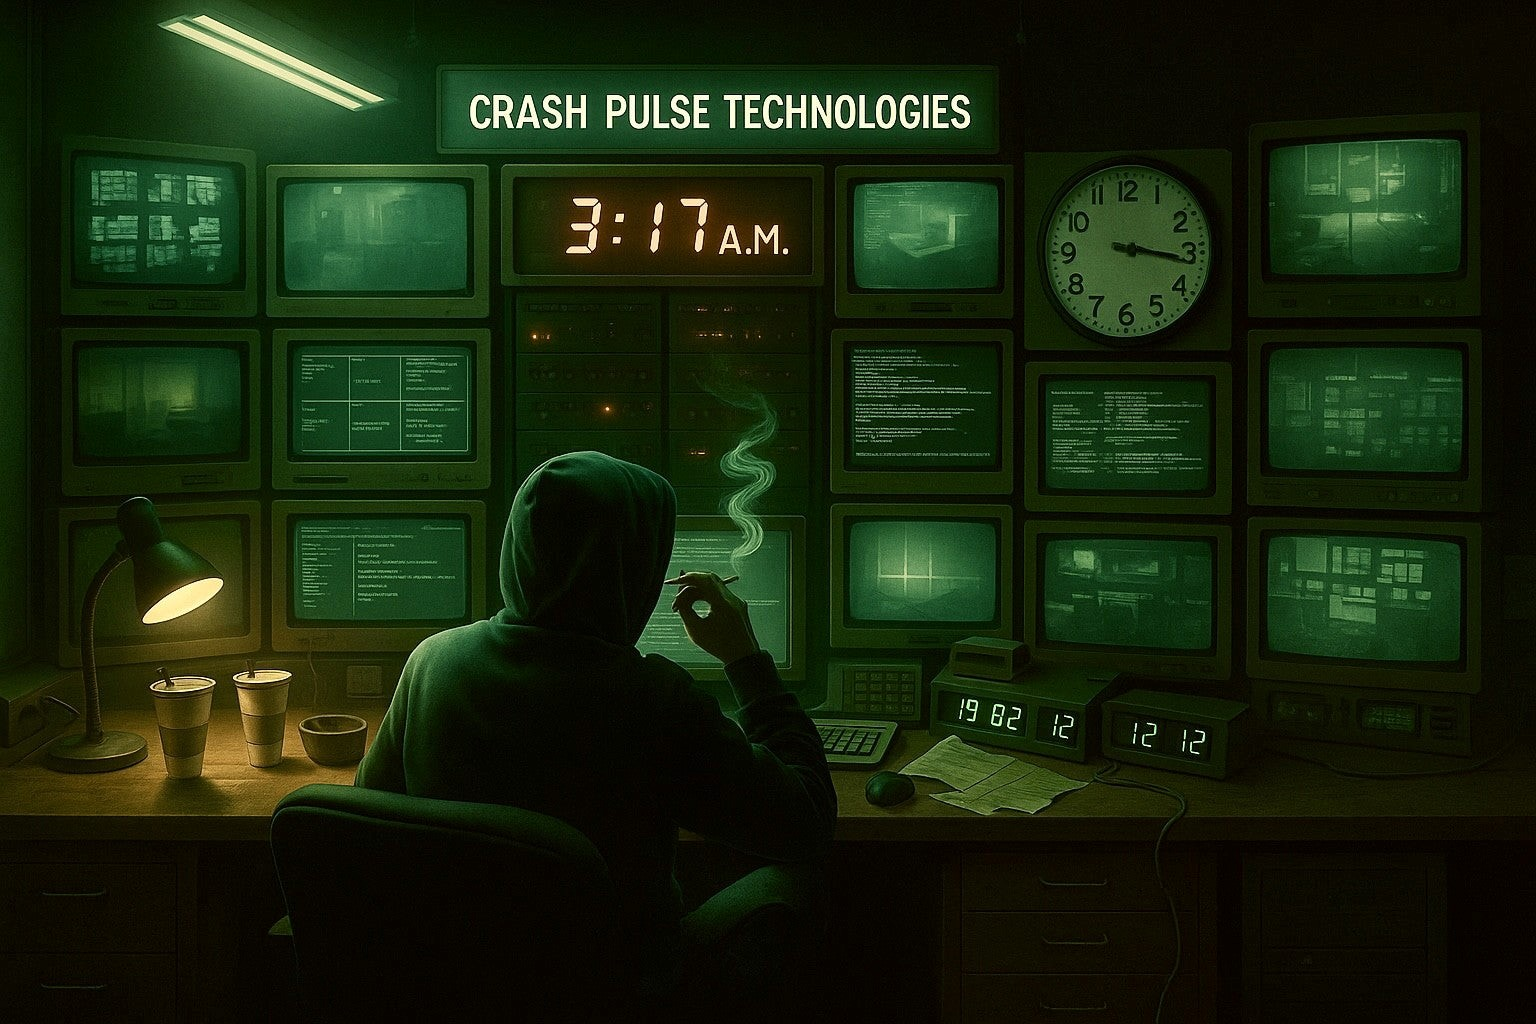
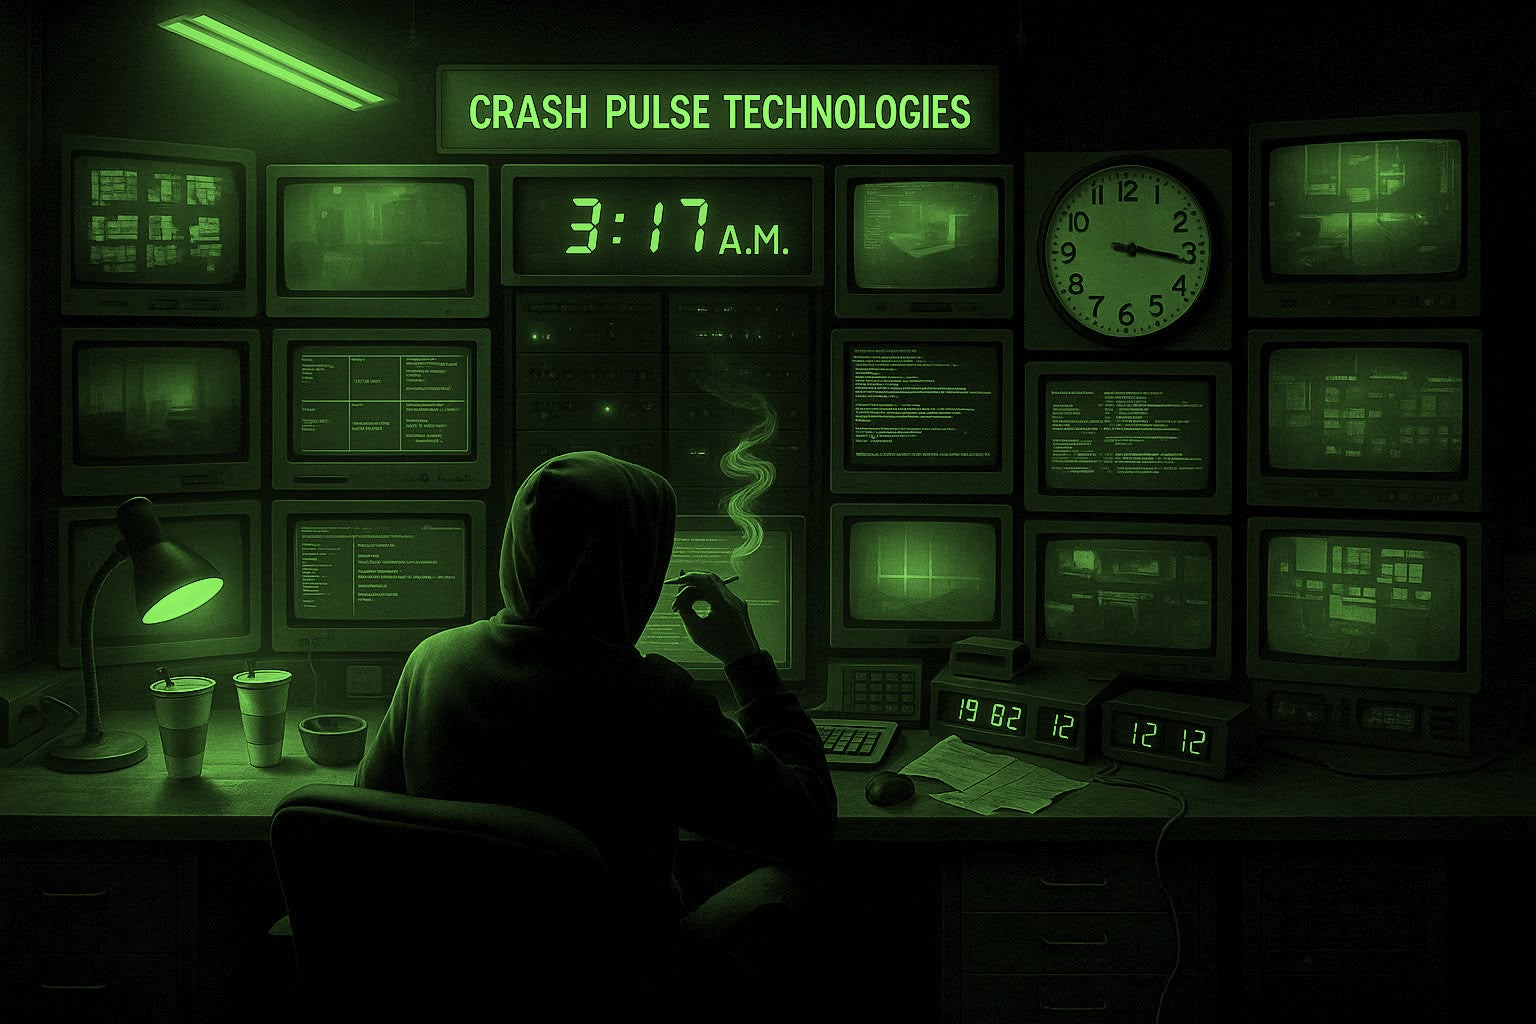
change images, add first and last name to login

diff --git a/app/admin/page.tsx b/app/admin/page.tsx
@@ -2,7 +2,6 @@ import { redirect } from "next/navigation";
 import Link from "next/link";
 import pool from "@/lib/db";
 import { getSession } from "@/lib/auth";
-import { Resend } from "resend";
 import { getVehicles } from "@/lib/vehicles";
 import { getLookupColumnConfig } from "@/lib/lookup-columns";
 import { AdminDataTab } from "./AdminDataTab";
@@ -50,26 +49,26 @@ function formatDate(iso: string | null) {
   });
 }
 
-interface ContactEmail {
-  id: string;
-  subject: string;
-  to: string[] | null;
-  reply_to: string[] | null;
+interface ContactRow {
+  id: number;
+  first_name: string;
+  last_name: string;
+  email: string;
+  phone: string | null;
+  message: string | null;
   created_at: string;
-  sent_at: string | null;
-  status: string;
 }
 
-async function getContactEmails(): Promise<ContactEmail[]> {
-  if (!process.env.RESEND_API_KEY) return [];
+async function getContacts(): Promise<ContactRow[]> {
   try {
-    const resend = new Resend(process.env.RESEND_API_KEY);
-    const { data, error } = await resend.emails.list();
-    if (error || !data) return [];
-    return (data.data as unknown as ContactEmail[]).filter(e =>
-      e.subject?.startsWith("New contact from") && !e.reply_to?.[0]?.includes("okashoon") &&!e.reply_to?.[0]?.includes("a.okasha")
+    const { rows } = await pool.query<ContactRow>(
+      `SELECT id, first_name, last_name, email, phone, message, created_at
+       FROM contacts
+       ORDER BY created_at DESC`
     );
-  } catch {
+    return rows;
+  } catch (err) {
+    console.error("[admin] failed to load contacts:", err);
     return [];
   }
 }
@@ -110,9 +109,9 @@ export default async function AdminPage({
     : null) as Filter;
   const page = Math.max(1, Number(rawPage) || 1);
 
-  const [allUsers, contactEmails, vehicleResult, columnConfig, cables] = await Promise.all([
+  const [allUsers, contacts, vehicleResult, columnConfig, cables] = await Promise.all([
     tab === "users" ? getAllUsers() : Promise.resolve([] as UserRow[]),
-    tab === "users" ? getContactEmails() : Promise.resolve([] as ContactEmail[]),
+    tab === "users" ? getContacts() : Promise.resolve([] as ContactRow[]),
     tab === "data" ? getVehicles({}, page, PER_PAGE) : Promise.resolve({ rows: [], total: 0 }),
     tab === "data" ? getLookupColumnConfig() : Promise.resolve([]),
     tab === "cables" ? getCables() : Promise.resolve([] as CableRecord[]),
@@ -332,45 +331,47 @@ export default async function AdminPage({
 
             {/* Contact messages */}
             <div className="bg-gray-900 border border-gray-800 rounded-lg overflow-hidden">
-              <div className="px-5 py-4 border-b border-gray-800 flex items-center justify-between">
+              <div className="px-5 py-4 border-b border-gray-800">
                 <h2 className="text-sm font-semibold text-gray-300 uppercase tracking-wider">
-                  Contact Messages ({contactEmails.length})
+                  Contact Messages ({contacts.length})
                 </h2>
-                <a
-                  href="https://resend.com/emails"
-                  target="_blank"
-                  rel="noopener noreferrer"
-                  className="text-xs text-gray-500 hover:text-gray-300 transition-colors"
-                >
-                  View in Resend ↗
-                </a>
               </div>
               <div className="overflow-x-auto">
                 <table className="w-full text-sm">
                   <thead>
                     <tr className="border-b border-gray-800 text-gray-400 text-xs uppercase tracking-wider">
-                      <th className="px-5 py-3 text-left">From</th>
-                      <th className="px-5 py-3 text-left">Subject</th>
-                      <th className="px-5 py-3 text-left">Sent</th>
+                      <th className="px-5 py-3 text-left">Name</th>
+                      <th className="px-5 py-3 text-left">Email</th>
+                      <th className="px-5 py-3 text-left">Phone</th>
+                      <th className="px-5 py-3 text-left">Message</th>
+                      <th className="px-5 py-3 text-left">Received</th>
                     </tr>
                   </thead>
                   <tbody className="divide-y divide-gray-800/60">
-                    {contactEmails.map(email => (
-                      <tr key={email.id} className="hover:bg-gray-800/40 transition-colors">
-                        <td className="px-5 py-3 text-gray-300 text-xs font-mono">
-                          {email.reply_to?.[0] ?? "—"}
+                    {contacts.map((c) => (
+                      <tr key={c.id} className="hover:bg-gray-800/40 transition-colors align-top">
+                        <td className="px-5 py-3 text-gray-100 whitespace-nowrap">
+                          {c.first_name} {c.last_name}
                         </td>
-                        <td className="px-5 py-3 text-gray-100 text-sm">
-                          {email.subject}
+                        <td className="px-5 py-3 text-gray-300 text-xs font-mono">
+                          <a href={`mailto:${c.email}`} className="hover:text-white">
+                            {c.email}
+                          </a>
                         </td>
                         <td className="px-5 py-3 text-gray-400 text-xs">
-                          {formatDate(email.sent_at ?? email.created_at)}
+                          {c.phone ?? <span className="text-gray-600 italic">—</span>}
+                        </td>
+                        <td className="px-5 py-3 text-gray-300 text-sm max-w-md whitespace-pre-wrap">
+                          {c.message ?? <span className="text-gray-600 italic">—</span>}
+                        </td>
+                        <td className="px-5 py-3 text-gray-400 text-xs whitespace-nowrap">
+                          {formatDate(c.created_at)}
                         </td>
                       </tr>
                     ))}
-                    {contactEmails.length === 0 && (
+                    {contacts.length === 0 && (
                       <tr>
-                        <td colSpan={4} className="px-5 py-10 text-center text-gray-600">
+                        <td colSpan={5} className="px-5 py-10 text-center text-gray-600">
                           No contact messages yet.
                         </td>
                       </tr>

diff --git a/app/api/contact/route.ts b/app/api/contact/route.ts
@@ -1,5 +1,6 @@
 import { NextRequest, NextResponse } from "next/server";
 import { Resend } from "resend";
+import pool from "@/lib/db";
 
 export async function POST(req: NextRequest) {
   const { firstName, lastName, email, phone, message } = await req.json();
@@ -11,21 +12,39 @@ export async function POST(req: NextRequest) {
     );
   }
 
-  const adminEmail = process.env.ADMIN_EMAIL;
-  const senderEmail = process.env.SENDER_EMAIL;
-  if (!adminEmail || !senderEmail) {
-    console.error("[contact] ADMIN_EMAIL env var is not set");
-    return NextResponse.json({ error: "Server misconfiguration." }, { status: 500 });
+  const first = String(firstName).trim();
+  const last = String(lastName).trim();
+  const fromEmail = String(email).trim();
+  const phoneVal = typeof phone === "string" && phone.trim() ? phone.trim() : null;
+  const messageVal = typeof message === "string" && message.trim() ? message.trim() : null;
+
+  try {
+    await pool.query(
+      `INSERT INTO contacts (first_name, last_name, email, phone, message)
+       VALUES ($1, $2, $3, $4, $5)`,
+      [first, last, fromEmail, phoneVal, messageVal]
+    );
+  } catch (err) {
+    console.error("[contact] failed to save contact:", err);
+    return NextResponse.json({ error: "Failed to save message." }, { status: 500 });
   }
 
-  const resend = new Resend(process.env.RESEND_API_KEY);
+  const adminEmail = process.env.ADMIN_EMAIL;
+  const senderEmail = process.env.SENDER_EMAIL;
+  if (adminEmail && senderEmail && process.env.RESEND_API_KEY) {
+    try {
+      const senderName = process.env.SENDER_NAME?.trim() || "Crash Pulse | Contact";
+      const from = senderEmail.includes("<")
+        ? senderEmail
+        : `${senderName} <${senderEmail}>`;
 
-  const { error } = await resend.emails.send({
-    from: senderEmail,
-    to: adminEmail,
-    replyTo: email,
-    subject: `New contact from ${firstName} ${lastName}`,
-    html: `
+      const resend = new Resend(process.env.RESEND_API_KEY);
+      const { error } = await resend.emails.send({
+        from,
+        to: adminEmail,
+        replyTo: fromEmail,
+        subject: `New contact from ${first} ${last}`,
+        html: `
 <!DOCTYPE html>
 <html>
 <body style="margin:0;padding:0;background:#0a0a0a;font-family:monospace;">
@@ -44,11 +63,11 @@ export async function POST(req: NextRequest) {
           <tr>
             <td style="padding:28px 32px;">
               <table width="100%" cellpadding="0" cellspacing="0">
-                ${row("FIRST_NAME", firstName)}
-                ${row("LAST_NAME",  lastName)}
-                ${row("EMAIL",      `<a href="mailto:${email}" style="color:#00ff41;">${email}</a>`)}
-                ${phone ? row("PHONE", phone) : ""}
-                ${message ? row("MESSAGE", message.replace(/\n/g, "<br/>")) : ""}
+                ${row("FIRST_NAME", first)}
+                ${row("LAST_NAME",  last)}
+                ${row("EMAIL",      `<a href="mailto:${fromEmail}" style="color:#00ff41;">${fromEmail}</a>`)}
+                ${phoneVal ? row("PHONE", phoneVal) : ""}
+                ${messageVal ? row("MESSAGE", messageVal.replace(/\n/g, "<br/>")) : ""}
               </table>
             </td>
           </tr>
@@ -65,11 +84,13 @@ export async function POST(req: NextRequest) {
   </table>
 </body>
 </html>`,
-  });
-
-  if (error) {
-    console.error("[contact] Resend error:", error);
-    return NextResponse.json({ error: "Failed to send message." }, { status: 500 });
+      });
+      if (error) console.error("[contact] Resend error:", error);
+    } catch (err) {
+      console.error("[contact] Resend error:", err);
+    }
+  } else {
+    console.error("[contact] email skipped — ADMIN_EMAIL / SENDER_EMAIL / RESEND_API_KEY missing");
   }
 
   return NextResponse.json({ ok: true });

diff --git a/app/(v1)/page.tsx b/app/(v1)/page.tsx
@@ -27,12 +27,10 @@ export default function HomeV3() {
           <p className="mb-4 text-xs tracking-[0.3em] text-[#00ff41]/60">
             // SYSTEM STATUS: ONLINE
           </p>
-          <h1 className="text-4xl sm:text-5xl md:text-6xl font-black tracking-tight leading-tight text-[#00ff41]">
-            CRASH_PULSE
-          </h1>
-          <p className="mt-1 text-lg font-bold tracking-widest text-[#00cc33]">
-            TECHNOLOGIES
-          </p>
+          <img
+            src="/crash_pulse_logo_large.png"
+            alt="Crash Pulse Technologies"
+          />
           <div className="mt-6 border border-[#00ff41]/30 bg-[#00ff41]/5 p-4 text-left text-sm text-[#00cc33] leading-relaxed max-w-2xl mx-auto">
             <span className="text-[#00ff41]">&gt; </span>
             The legacy tools were discontinued. The forensic engineering community was left without
@@ -99,6 +97,16 @@ export default function HomeV3() {
                 alt="Validation — SAE Published"
                 className="w-full border border-[#00ff41]/20"
               />
+              <img
+                src="/retrieval_legacy.jpeg"
+                alt="Crash Data Retrieval from Legacy Vehicles: Overview and Validation of a Functionally Equivalent Vehicle Communication Interface (CDX)"
+                className="w-full border border-[#00ff41]/20"
+              />
+              <div className="space-y-3 pt-2">
+                <p className="text-sm text-[#00cc33] leading-relaxed">
+                  Published in the Accident Reconstruction Journal, Vol. 36, No. 4 (July/August 2026): <i>“Crash Data Retrieval from Legacy Vehicles: Overview and Validation of a Functionally Equivalent Vehicle Communication Interface (CDX)”</i>
+                </p>
+              </div>
               <img
                 src="/summit.jpeg"
                 alt="2026 EDR Summit — Houston"

diff --git a/app/(v1)/components/NavBar.tsx b/app/(v1)/components/NavBar.tsx
@@ -109,14 +109,27 @@ export function NavBarV3() {
             ) : null}
           </div>
 
-          {/* Mobile hamburger */}
-          <button
-            className="lg:hidden p-2 font-mono text-[#00cc33] hover:text-[#00ff41]"
-            onClick={() => setMobileOpen((v) => !v)}
-            aria-label="Toggle menu"
-          >
-            {mobileOpen ? "[X]" : "[=]"}
-          </button>
+          {/* Mobile: lookup stays visible next to the hamburger */}
+          <div className="flex lg:hidden items-center gap-1 shrink-0">
+            <Link
+              href="/lookup"
+              className={[
+                "px-2.5 py-1 font-mono text-[10px] tracking-widest transition-colors",
+                pathname === "/lookup"
+                  ? "text-[#0a0a0a] bg-[#00ff41]"
+                  : "text-[#00cc33] hover:text-[#00ff41] hover:bg-[#00ff41]/10",
+              ].join(" ")}
+            >
+              {pathname === "/lookup" ? "[VEHICLE LOOKUP]" : "VEHICLE LOOKUP"}
+            </Link>
+            <button
+              className="p-2 font-mono text-[#00cc33] hover:text-[#00ff41]"
+              onClick={() => setMobileOpen((v) => !v)}
+              aria-label="Toggle menu"
+            >
+              {mobileOpen ? "[X]" : "[=]"}
+            </button>
+          </div>
         </div>
 
         {/* Mobile menu */}

diff --git a/app/(v1)/validation/page.tsx b/app/(v1)/validation/page.tsx
@@ -9,6 +9,7 @@ export default function ValidationV3() {
           className="w-full border border-[#00ff41]/20"
         />
 
+
         {/* SAE paper link */}
         <div className="border border-[#00ff41]/40 bg-[#00ff41]/5 p-5 flex items-start gap-3">
           <span className="text-[#00ff41] shrink-0 text-xs mt-0.5">&gt;</span>
@@ -21,6 +22,17 @@ export default function ValidationV3() {
             SAE 2026-01-5009 – Validation of a Legacy-Compatible Vehicle Communication Interface
             for the Retrieval of Crash Data from Passenger Vehicles ↗
           </a>
+        </div>
+        
+        <img
+          src="/retrieval_legacy.jpeg"
+          alt="Crash Data Retrieval from Legacy Vehicles: Overview and Validation of a Functionally Equivalent Vehicle Communication Interface (CDX)"
+          className="w-full border border-[#00ff41]/20"
+        />
+        <div className="space-y-3 pt-2">
+          <p className="text-sm text-[#00cc33] leading-relaxed">
+            Published in the Accident Reconstruction Journal, Vol. 36, No. 4 (July/August 2026): <i>“Crash Data Retrieval from Legacy Vehicles: Overview and Validation of a Functionally Equivalent Vehicle Communication Interface (CDX)”</i>
+          </p>
         </div>
 
         <div>
